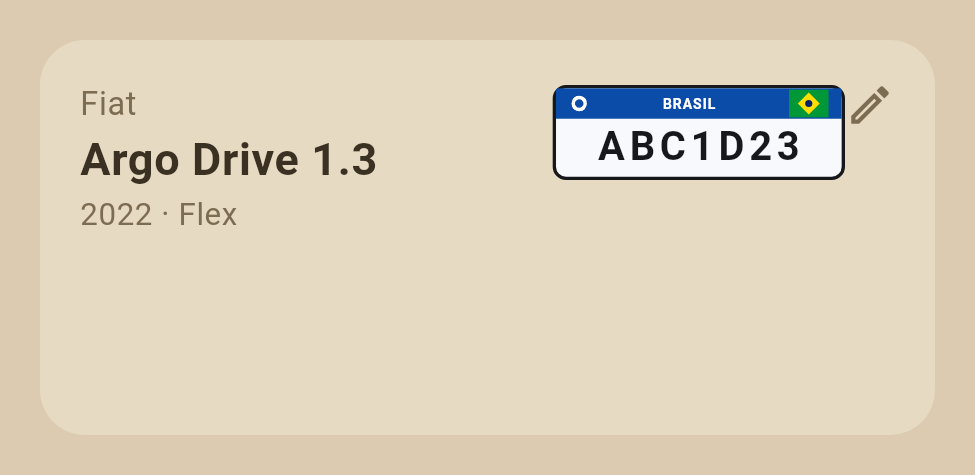
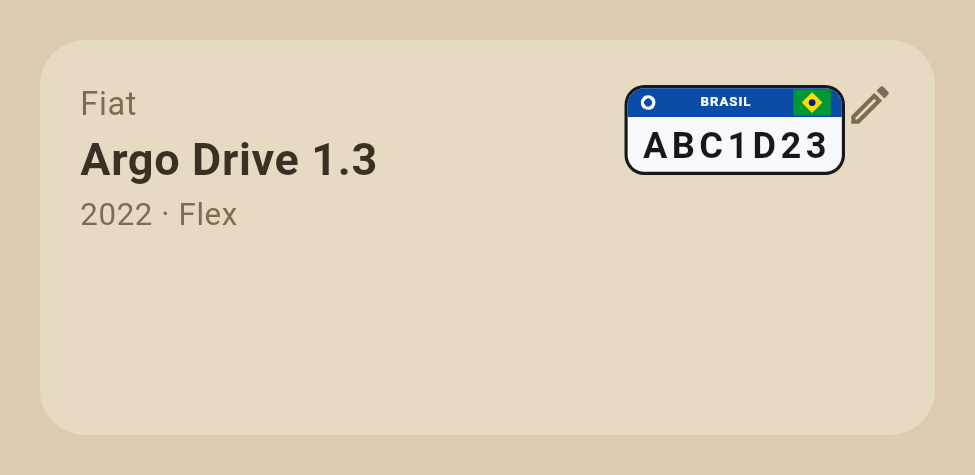
carlog: placa Mercosul compacta e com cantos arredondados

Changed region(s): [[0.5538, 0.1768, 0.8923, 0.3832]]

diff --git a/carlog-placa-mercosul.html b/carlog-placa-mercosul.html
@@ -25,7 +25,7 @@ footer{text-align:center;color:#5A6E8C;font-size:12px;margin:26px 0 10px}
 <body>
 <div class="wrap">
   <h1>CarLog — Placa Mercosul no cartão do veículo
-    <small>faixa azul (logo + BRASIL + bandeira) e código em preto no fundo claro, na proporção real 400×130</small>
+    <small>faixa azul (logo + BRASIL + bandeira) e código em preto no fundo claro • versão compacta com cantos arredondados</small>
   </h1>
 
   <div class="reco">
@@ -48,7 +48,7 @@ footer{text-align:center;color:#5A6E8C;font-size:12px;margin:26px 0 10px}
     <div class="card">
       <div><div class="t">Zoom na placa</div><div class="s">detalhes: logo, BRASIL, bandeira</div></div>
       <div class="phone"><a href="assets/carlog/placa_zoom.png" target="_blank"><img src="assets/carlog/placa_zoom.png" alt="Zoom da placa Mercosul"></a></div>
-      <div class="desc">Proporção 400×130 da placa real; caracteres no padrão Mercosul (3 letras + número + 2 caracteres).</div>
+      <div class="desc">Cantos arredondados em cima e embaixo; caracteres no padrão Mercosul (3 letras + número + 2 caracteres).</div>
     </div>
   </div>
 
